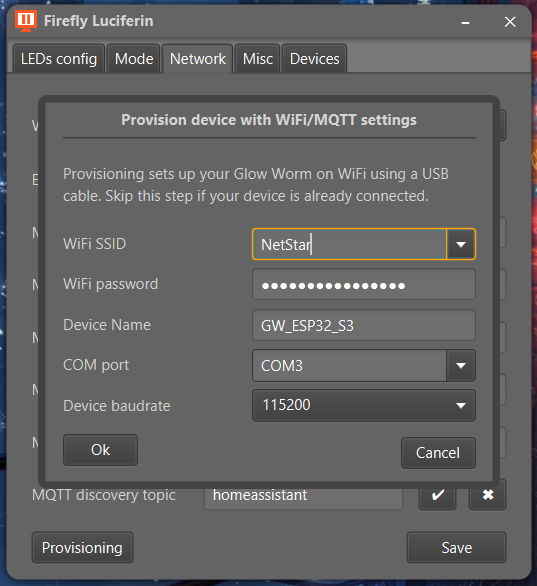
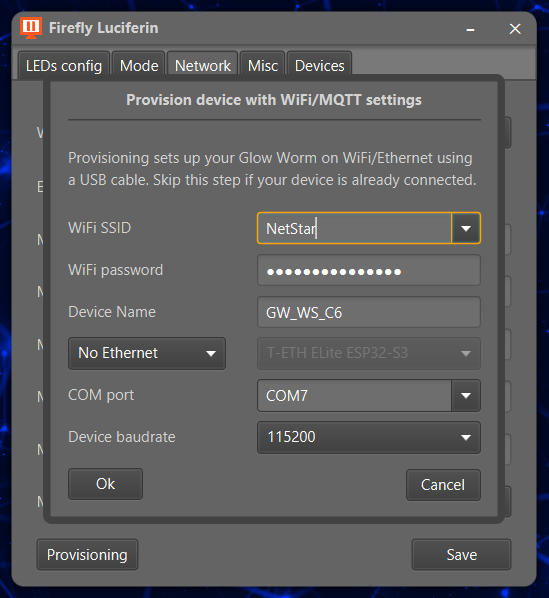
pre-release asset

Changed region(s): [[0.0, 0.0, 1.0, 1.0]]

diff --git a/docs/index.md b/docs/index.md
@@ -22,6 +22,65 @@ a {
 
 ### In this release
 
+- ***Update requirement***: requires `Glow Worm Luciferin` firmware (v5.24.7)
+- The [Luciferin Official PCB](https://github.com/sblantipodi/firefly_luciferin/wiki/Ready-to-print-PCB) requires a "D1
+  Mini format" board. With the
+  new [Luciferin Module for the Official PCB](https://github.com/sblantipodi/firefly_luciferin/wiki/Ready-to-print-PCB#luciferin-module-for-the-official-pcb),
+  you can use a smaller board, opening up more upgrade possibilities without the need to replace the PCB or redo any
+  soldering or cabling.
+  The [Luciferin Ethernet Module](https://github.com/sblantipodi/firefly_luciferin/wiki/Ready-to-print-PCB#luciferin-ethernet-module-for-the-official-pcb)
+  can also add Ethernet connectivity to boards that do not natively support it.
+- Added support for
+  Espressif [ESP32-C6 and ESP32-C5](https://github.com/sblantipodi/firefly_luciferin/wiki/Compatible-Hardware), enabling
+  Wi‑Fi 6 and 5 GHz support on the C5. Closes [#92](https://github.com/sblantipodi/glow_worm_luciferin/issues/92).
+- [Web installer](https://sblantipodi.github.io/glow_worm_luciferin/) updated to support newer devices. Firmware
+  installation is now much easier on devices with a native USB interface (non-UART).
+- Added support for SPI-based Ethernet devices. The Web Installer now allows you to specify which pin to use to control
+  the Ethernet chip, opening up possibilities for custom Ethernet devices.
+- WiFi and Ethernet can now coexist and be connected at the same time. Firefly Luciferin automatically gives priority to
+  the wired (Ethernet) network when both connections are available.
+- Added support
+  for [Gledopto](https://github.com/sblantipodi/firefly_luciferin/wiki/Compatible-Hardware#pre-build-boards-support)
+  series with Ethernet.
+- Driving LEDs via USB is now considered stable on native USB devices (non-UART).
+-
+USB [provisioning via Firefly Luciferin](https://github.com/sblantipodi/firefly_luciferin/wiki/Remote-Access#provision-directly-from-firefly-luciferin)
+now allows specifying the device name, enabling the provisioning of multiple devices without name collisions.
+- You can
+  now [configure the GPIO pin](https://github.com/sblantipodi/firefly_luciferin/wiki/Supported-GPIO-and-Baud-Rate#how-to-change-the-gpio-in-use)
+  of the built-in LED on your microcontroller. The built-in LED provides visual feedback on your device’s connection
+  status.
+- Luciferin has been added to
+  the [Windows Package Manager](https://github.com/sblantipodi/firefly_luciferin/wiki/Installers-and-binaries).
+- The Windows installation footprint of the program has been significantly reduced.
+- Enhanced [black bar detection](https://github.com/sblantipodi/firefly_luciferin/wiki/Aspect-ratio) with debounce logic
+  to reduce false positives.
+- Firmware upgraded to Arduino Core 3 (based on IDF5).
+-
+Improved [LED placement and alignment](https://github.com/sblantipodi/firefly_luciferin/wiki/Test-image-and-latency-test#custom-led-layout)
+on the test canvas, with better spacing and resizing behavior when pressing Shift+Tab.
+Closes [#406](https://github.com/sblantipodi/firefly_luciferin/issues/406).
+- Improved Glow Worm device discovery and UDP communication reliability on complex or multi-network setups by refining
+  interface selection, preserving static IP fallback, explicitly binding stream sockets to the correct subnet, and
+  adding detailed debug logging. Closes [#400](https://github.com/sblantipodi/firefly_luciferin/issues/400).
+- Added a reminder for Linux users to add the user to the dialout or uucp group for USB device access.
+  Closes [#371](https://github.com/sblantipodi/firefly_luciferin/issues/371).
+- GPIO0 was not able to drive the LED strip. Fixed.
+- [Baud rate](https://github.com/sblantipodi/firefly_luciferin/wiki/Supported-GPIO-and-Baud-Rate#baud-rate) changes were
+  not applied when the device was under load, fixed.
+- Improved visibility of option buttons through small UI enhancements on
+  the [Web Interface](https://github.com/sblantipodi/firefly_luciferin/wiki/Remote-Access#luciferin-web-interface).
+  Parts of the UI loading have been offloaded to the server side to ease UI rendering during heavy data streaming.
+- Fixed an issue that caused incorrect Wi-Fi signal strength readings when there were two or more MQTT devices and one
+  of them was using Ethernet.
+- Fixed an issue that caused duplicate devices to appear in the Devices tab of Firefly Luciferin when using multiple
+  devices simultaneously.
+- [Web Interface](https://github.com/sblantipodi/firefly_luciferin/wiki/Remote-Access#luciferin-web-interface) was not
+  showing correct framerate when driving LEDs via USB. Fixed.
+- [Arduino Bootstrapper](https://github.com/sblantipodi/arduino_bootstrapper/releases) update (v.1.19.7).
+
+### In the previous release:
+
 - ***Update requirement***: requires `Glow Worm Luciferin` firmware (v5.23.6)
 - **Manual LED Layout Configuration:** In addition to the automatic LED layout setup, you can
   now [manually configure your LED layout](https://github.com/sblantipodi/firefly_luciferin/wiki/Test-image-and-latency-test)
@@ -79,7 +138,7 @@ As always, users running a previous version of Luciferin can use
 the [automatic update feature](https://github.com/sblantipodi/firefly_luciferin/wiki/Luciferin-update-management) for
 both the PC software and the firmware.
 
-### In the previous release:
+### Two Versions Ago:
 
 - ***Hotfix release: This issue affects only Firefly Luciferin; no firmware update is required.***
 - **Added a setting to adjust screen capture quality.** Balanced is recommended for most users, while higher quality
@@ -97,20 +156,5 @@ both the PC software and the firmware.
 - Fixed a Linux-only issue that prevented Firefly Luciferin from running when multiple installation types were present
   on the system, such as .deb/.rpm, Snap, or Flatpak.
 - Java/JavaFX 25, libs update, code refactor to avoid using deprecated methods, CI/CD pipeline improvements.
-
-### Two Versions Ago:
-
-- ***Hotfix release: This issue only affects Firefly Luciferin; there is no need to update the firmware.***
-- Luciferin restarted after seemingly random periods of time. Fixed. Closes [#324](https://github.com/sblantipodi/firefly_luciferin/issues/324).
-- Reduced latency in screen capture on Linux Wayland.
-- Prevented invalid values from being entered during
-  the [Single Device Multi Screen](https://github.com/sblantipodi/firefly_luciferin/wiki/Multi-monitor-support) setup
-  configuration.
-- Fixed an issue that caused incorrect colors when using
-  the [smoothing](https://github.com/sblantipodi/firefly_luciferin/wiki/Smoothing-color-transitions) effect on Linux
-  Wayland.
-- Fixed an issue where settings could not be opened on Flatpak when an update was available.
-
-
 
 [Click here for the complete changelog of previous versions.](https://github.com/sblantipodi/firefly_luciferin/releases)
